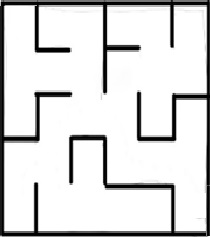
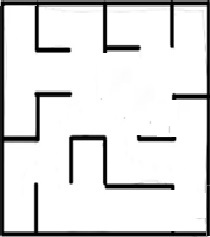
improve maze challenge

diff --git a/main.py b/main.py
@@ -26,27 +26,27 @@ walls = [
         [True, True, False, True], 
         [False, False, True, False], 
         [True, True, False, True], 
-        [True, False, True, True], 
+        [True, True, True, True], 
         [False, False, True, True]
     ],
     [
         [False, True, False, True], 
         [True, True, False, False], 
-        [True, False, True, True], 
-        [False, True, True, False], 
+        [True, True, True, True], 
+        [False, True, True, True], 
         [False, True, False, False]
     ],
     [
-        [False, False, False, True], 
         [False, True, False, True], 
-        [True, False, False, False], 
+        [False, True, False, True], 
+        [True, True, False, True], 
         [True, True, True, True], 
         [False, False, True, True]
     ],
     [
-        [True, False, False, False], 
+        [True, False, False, True], 
         [True, False, True, True], 
-        [False, False, True, False], 
+        [False, False, True, True], 
         [True, False, False, True], 
         [False, False, True, False]
     ]
@@ -220,12 +220,26 @@ def wallRight():
         return not walls[x_pos][y_pos][0]
 
 renderMap()
-delay = 500 # set the delay of simulation
+delay = 350 # set the delay of simulation
 
 # Execucao: ----------------------------------
 
 while True:
-    moveForward()
+    if not wallRight():
+        rotateClockWise()
+        moveForward()
+
+    elif not wallFront():
+        moveForward()
+
+    elif not wallLeft():
+        rotateCounterClockWise();
+        moveForward()
+
+    elif not wallBack():
+        rotateCounterClockWise()
+        rotateCounterClockWise()
+        moveForward()
 
 # --------------------------------------------
 renderMap()
